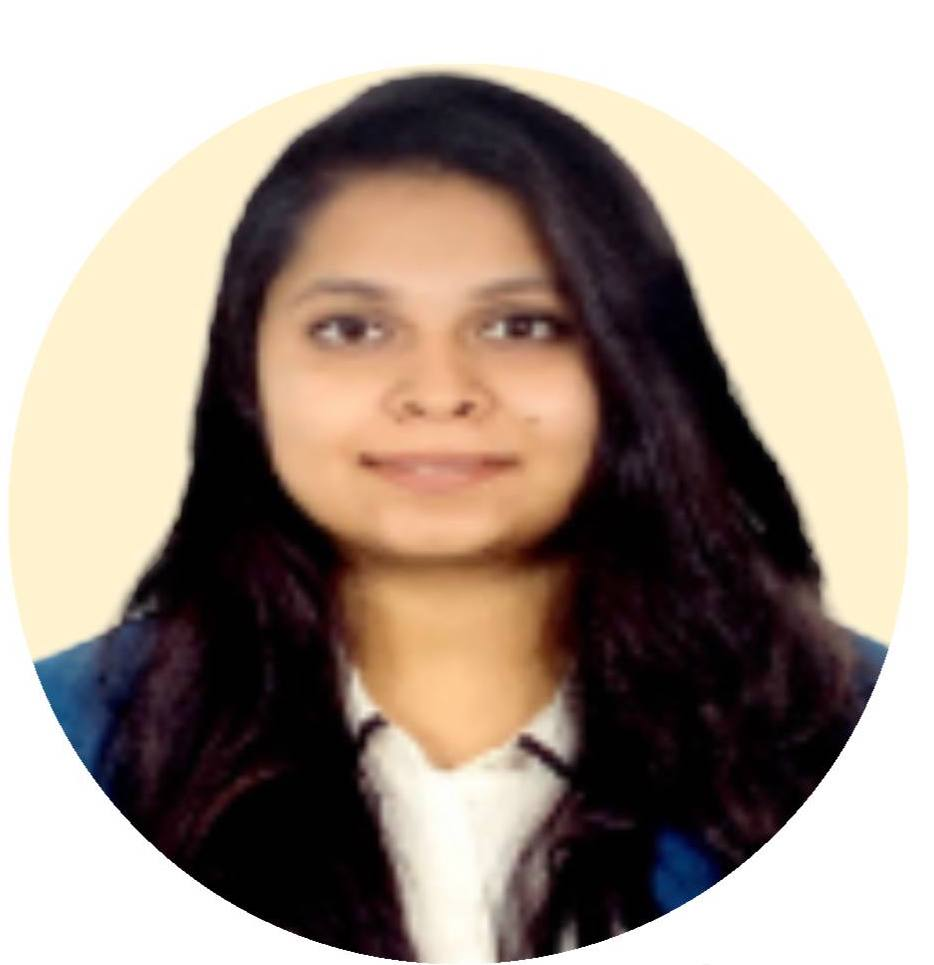
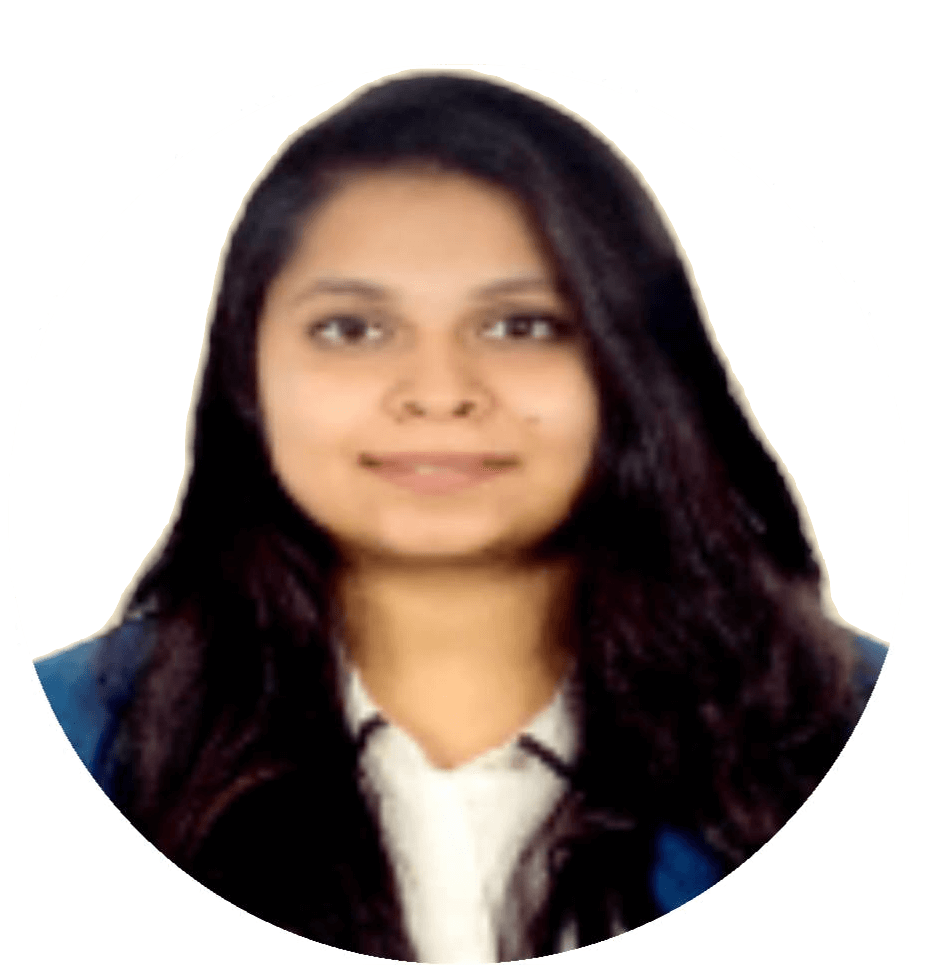
updated team images and added an image on campusbird page

Changed region(s): [[0.0, 0.0622, 0.9936, 0.6839]]

diff --git a/src/views/Contact.vue b/src/views/Contact.vue
@@ -1,26 +1,33 @@
 <template>
   <div>
     <b-container>
-      <b-row>
+      <b-row class="mt-4">
         <b-col>
+          <b-img-lazy
+            thumbnail
+            fluid-grow
+            alt="Tree outside our building"
+            :src="require(`../assets/images/campusbird.jpg`)"
+          >
+          </b-img-lazy>
+        </b-col>
+        <b-col cols="8" md="6">
           <h4>Contact Us</h4>
           <p>
             Our lab is located in the fifth floor of the R&D Building in the
             main campus of CSIR-CCMB.
           </p>
           <p>To get in touch with Dr.Ishwariya Venkatesh:</p>
-          <b-col cols="10">
-            <ul class="list-group">
-              <li class="list-group-item">Email: ishwariya@ccmb.res.in</li>
-              <li class="list-group-item">Phone: 040-27192825</li>
-              <li class="list-group-item">
-                Twitter:
-                <a target="_blank" href="https://twitter.com/Ishwariya13">
-                  @Ishwariya13</a
-                >
-              </li>
-            </ul>
-          </b-col>
+          <ul class="list-group">
+            <li class="list-group-item">Email: ishwariya@ccmb.res.in</li>
+            <li class="list-group-item">Phone: 040-27192825</li>
+            <li class="list-group-item">
+              Twitter:
+              <a target="_blank" href="https://twitter.com/Ishwariya13">
+                @Ishwariya13</a
+              >
+            </li>
+          </ul>
         </b-col>
       </b-row>
     </b-container>

diff --git a/src/views/Gallery.vue b/src/views/Gallery.vue
@@ -2,16 +2,17 @@
   <div>
     <b-container fluid class="p-4 bg-light">
       <b-row>
-        <b-col cols="6" v-for="image in images" :key="image">
+        <b-col class="mb-5" cols="6" v-for="image in images" :key="image">
           <h4 class="text-center">{{ image.desc }}</h4>
           <b-img-lazy
             blank-src="null"
             thumbnail
             fluid
             :src="require(`../assets/images/gallery/${image.file}.jpg`)"
-            alt="Image 1"
+            :alt="image.desc"
             height="70%"
           ></b-img-lazy>
+          <hr />
         </b-col>
       </b-row>
     </b-container>
@@ -61,5 +62,8 @@ h4 {
 }
 .bg-light {
   background: #38542f !important;
+}
+hr {
+  background: snow;
 }
 </style>
